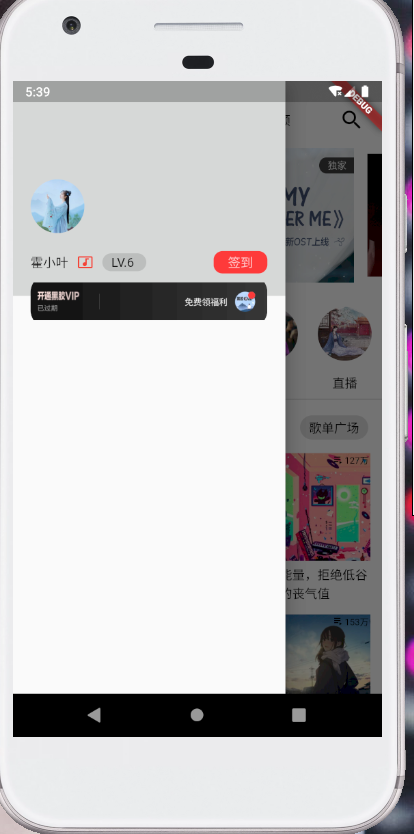
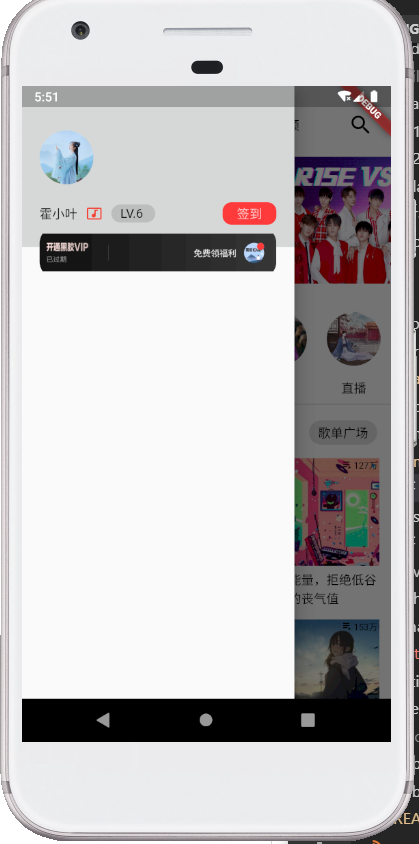
侧边栏顶部制作完毕

Changed region(s): [[0.0, 0.0, 1.0, 1.0], [0.1449, 0.0, 0.2319, 0.0624], [0.8406, 0.4988, 0.8696, 0.53]]

diff --git a/lib/pages/myDrawer/myDrawer.dart b/lib/pages/myDrawer/myDrawer.dart
@@ -9,10 +9,10 @@ class MyDrawer extends StatelessWidget {
       
         // 个人信息区域
         Stack(
-          alignment: FractionalOffset(0, 1.2),
+          alignment: FractionalOffset(0, 1.3),
           children: <Widget>[
             Container(
-              height: 240,
+              height: 180,
               padding: EdgeInsets.only(bottom: 15),
               color: Color.fromRGBO(214, 216, 215, 1),
               child: Column(

diff --git a/README.md b/README.md
@@ -1,6 +1,6 @@
 ### 效果图
-![首页实现图](https://raw.githubusercontent.com/HuoXiaoYe/flutter-wangyiMusic/master/images/home_page1.PNG?row=true)
+![首页实现图](https://raw.githubusercontent.com/HuoXiaoYe/flutter-wangyiMusic/master/images/home_page1.PNG?row=true){:height="300" width="140"}
 
-![首页实现图](https://raw.githubusercontent.com/HuoXiaoYe/flutter-wangyiMusic/master/images/b2.PNG?row=true)
+![首页实现图](https://raw.githubusercontent.com/HuoXiaoYe/flutter-wangyiMusic/master/images/b2.PNG?row=true){:height="300" width="140"}
 
-![侧边栏](https://raw.githubusercontent.com/HuoXiaoYe/flutter-wangyiMusic/master/images/drawer.PNG?row=true)
+![侧边栏](https://raw.githubusercontent.com/HuoXiaoYe/flutter-wangyiMusic/master/images/drawer.PNG?row=true){:height="300" width="140"}
